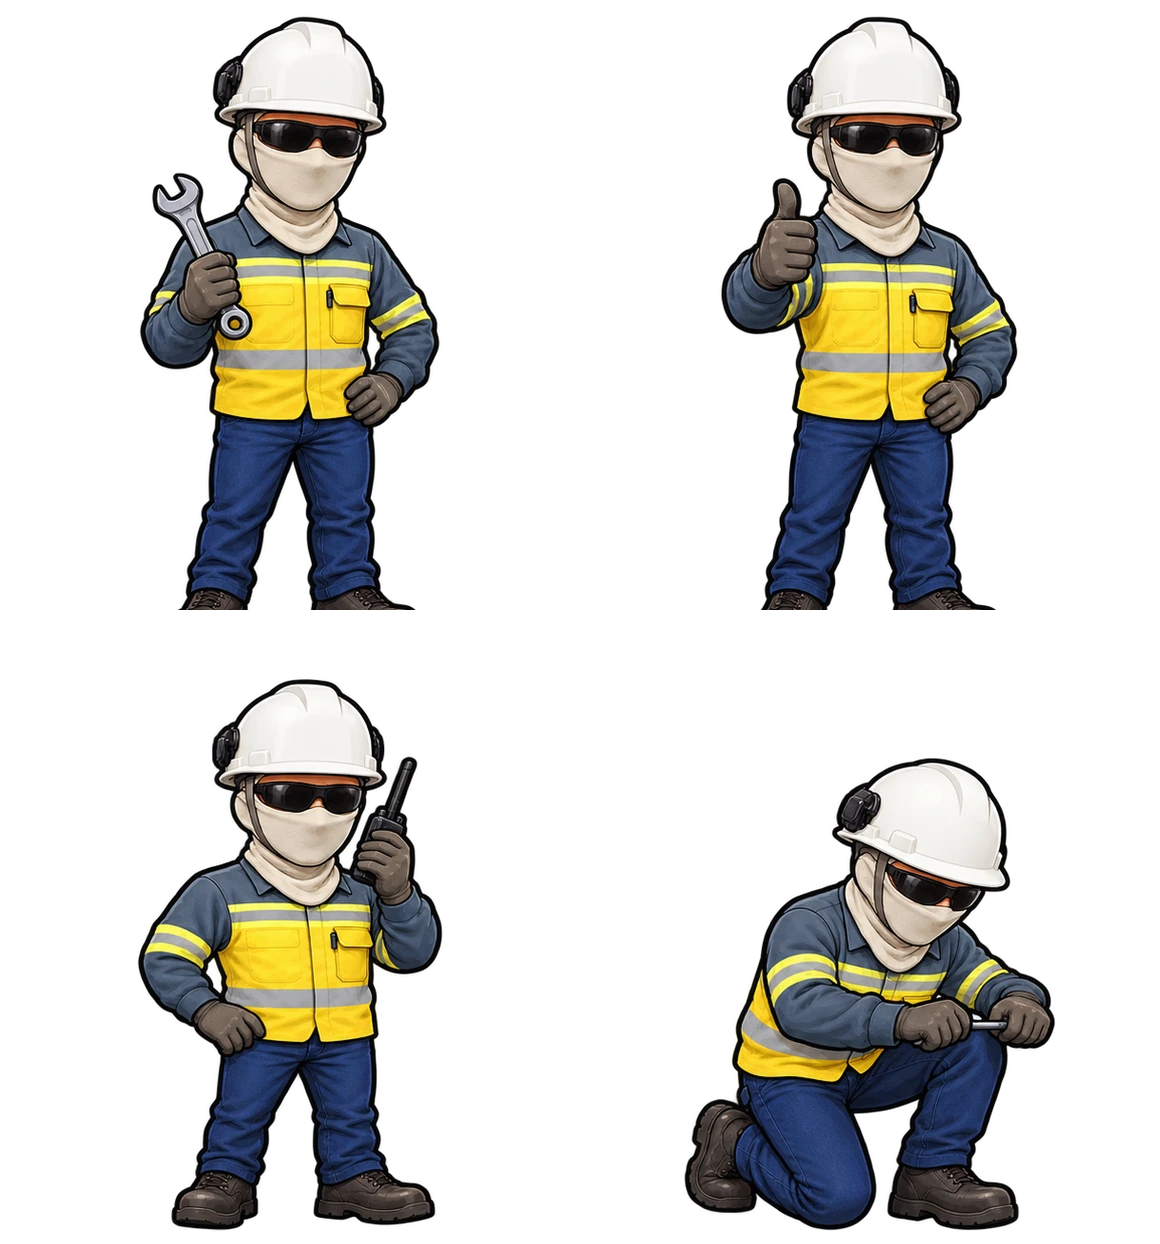
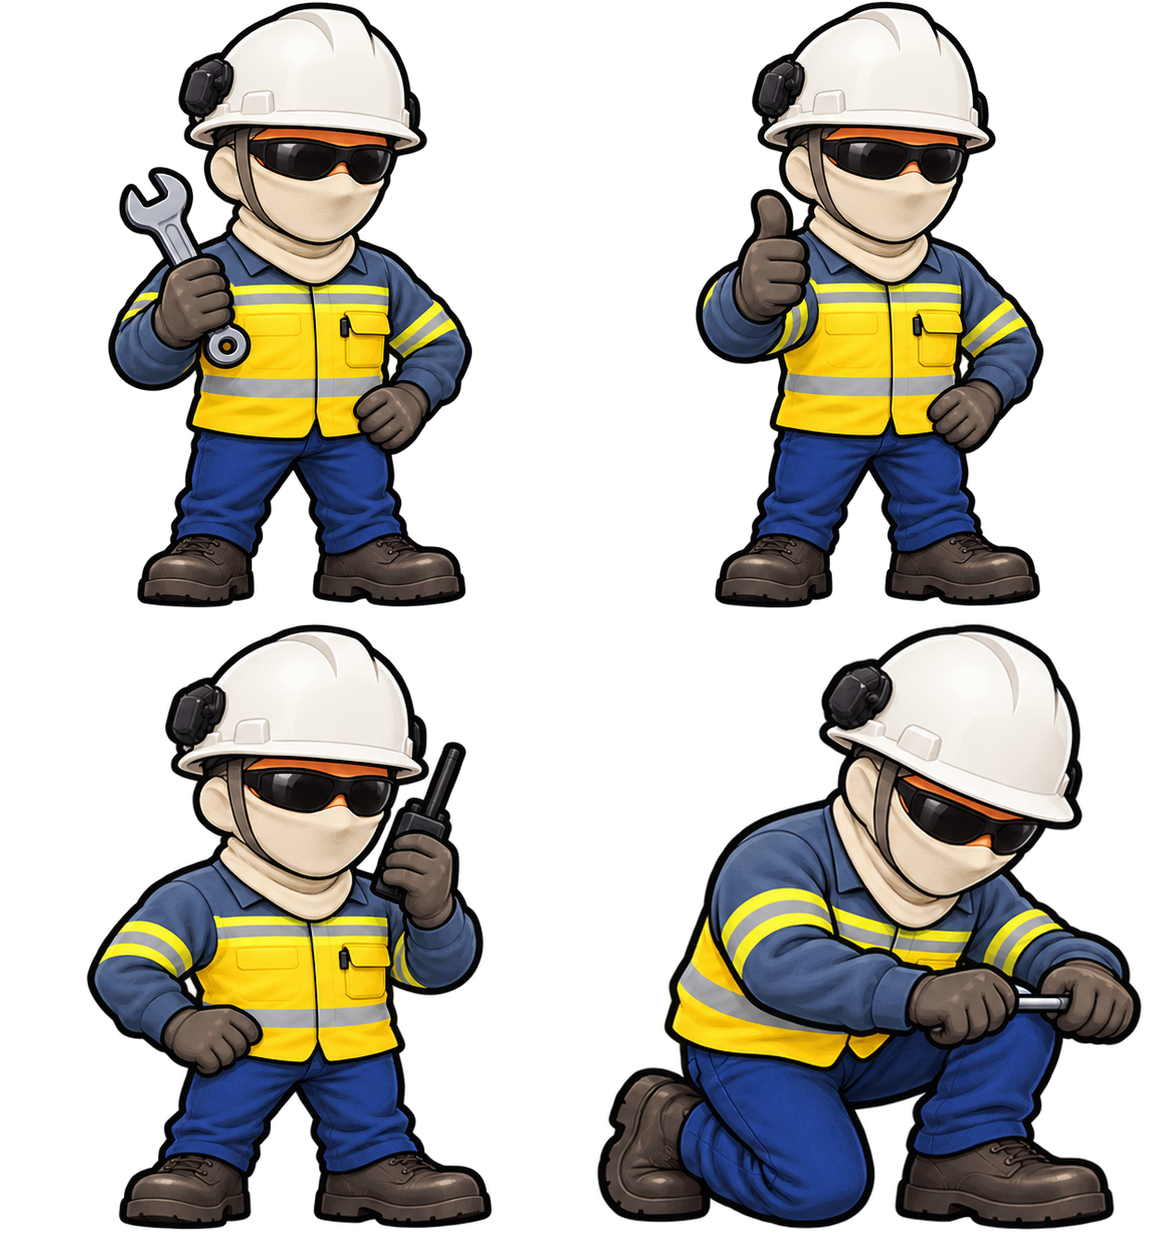
fix(Phaser v0.8.21): normalize Junior atlas and prefilter worker sprites

diff --git a/phaser-play/game.js b/phaser-play/game.js
@@ -1,4 +1,4 @@
-/* P.O.R.C.A.R.I.A. Phaser vertical slice v0.8.19 · motor de simulacao v1.1 */
+/* P.O.R.C.A.R.I.A. Phaser vertical slice v0.8.21 · motor de simulacao v1.1 */
 (() => {
 'use strict';
 const $=id=>document.getElementById(id);
@@ -38,6 +38,7 @@ const WORKER_SHEETS=Object.freeze({
 // Uniforme de treinamento não é carregado como sprite da oficina.
 const TEAM_PORTRAITS=Object.freeze({junior:'./assets/characters/junior/junior-training-4poses.webp'});
 const WORKER_FRAME={width:580,height:622,poses:4};
+const WORKER_RENDER_FRAME={width:290,height:311}; // pré-filtragem 2×, sem alterar tamanho em cena
 const WORKER_POSES={blocked:[0],diagnose:[0,2,1,2],repair:[0,3,2,3]};
 let MODEL_PRESENTATION={};
 let BACKGROUND_PROFILES=null;
@@ -973,6 +974,35 @@ class Workshop extends Phaser.Scene{
      this.machineObjs.push(g);
    }
  }
+ workerRenderTexture(texture){
+  const renderKey=texture+'_prefilter_v0821';
+  if(this.textures.exists(renderKey))return renderKey;
+  const src=this.textures.get(texture).getSourceImage();
+  if(!src||src.width!==WORKER_FRAME.width*2||src.height!==WORKER_FRAME.height*2)return texture;
+  // Reduzir cada frame separadamente evita vazamento de pixels entre poses.
+  // Canvas pré-filtra em alta qualidade antes da última redução feita pelo GPU.
+  const canvas=document.createElement('canvas');
+  canvas.width=WORKER_RENDER_FRAME.width*2;
+  canvas.height=WORKER_RENDER_FRAME.height*2;
+  const ctx=canvas.getContext('2d',{alpha:true});
+  if(!ctx)return texture;
+  ctx.imageSmoothingEnabled=true;
+  ctx.imageSmoothingQuality='high';
+  for(let i=0;i<4;i++){
+   ctx.drawImage(src,(i%2)*WORKER_FRAME.width,Math.floor(i/2)*WORKER_FRAME.height,
+    WORKER_FRAME.width,WORKER_FRAME.height,
+    (i%2)*WORKER_RENDER_FRAME.width,Math.floor(i/2)*WORKER_RENDER_FRAME.height,
+    WORKER_RENDER_FRAME.width,WORKER_RENDER_FRAME.height);
+  }
+  const sheet=this.textures.addCanvas(renderKey,canvas);
+  if(!sheet)return texture;
+  for(let i=0;i<4;i++){
+   sheet.add(i,0,(i%2)*WORKER_RENDER_FRAME.width,Math.floor(i/2)*WORKER_RENDER_FRAME.height,
+    WORKER_RENDER_FRAME.width,WORKER_RENDER_FRAME.height);
+  }
+  sheet.setFilter(Phaser.Textures.FilterMode.LINEAR);
+  return renderKey;
+ }
  worker(x,y,mechanic,{facing='right',mode='diagnose',visualCalibrationX=0,bay=null}={}){
   x=this.activeProfile==='fullFrame'&&bay
    ?window.PORCARIA_LAYOUT.placeWorkerInBay(x,bay,54,2)
@@ -981,11 +1011,13 @@ class Workshop extends Phaser.Scene{
   const person=mechanic?.sprite;
   const texture=person&&WORKER_SHEETS[person]?'worker_'+person:null;
   if(texture&&this.textures.exists(texture)){
-   // Em redução ~10x, LINEAR preserva mais contornos do que NEAREST.
-   this.textures.get(texture).setFilter(Phaser.Textures.FilterMode.LINEAR);
+   // Pré-filtra cada pose em 2× antes da minificação final, sem mexer no ponto de apoio.
+   const renderKey=this.workerRenderTexture(texture);
+   const frame=renderKey===texture?WORKER_FRAME:WORKER_RENDER_FRAME;
+   this.textures.get(renderKey).setFilter(Phaser.Textures.FilterMode.LINEAR);
    const poses=WORKER_POSES[mode]||WORKER_POSES.diagnose;
-   const actor=this.add.sprite(x,y,texture,poses[0]).setOrigin(.5,1);
-   actor.setScale(Math.min(54/WORKER_FRAME.width,64/WORKER_FRAME.height));
+   const actor=this.add.sprite(x,y,renderKey,poses[0]).setOrigin(.5,1);
+   actor.setScale(Math.min(54/frame.width,64/frame.height));
    actor.setFlipX(facing==='left');
    this.workerSprites.push({sprite:actor,frames:poses,index:0});
    return actor;

diff --git a/sw.js b/sw.js
@@ -1,5 +1,5 @@
 /* P.O.R.C.A.R.I.A.: network-first para sempre atualizar o Pages; offline como fallback. */
-const CACHE='porcaria-vqec-20261018-v100';
+const CACHE='porcaria-vqec-20261018-v101';
 const CORE=['./','./index.html','./engine.js','./game-data.json','./manifest.webmanifest','./icon-192.png','./icon-512.png','./phaser-play/index.html','./phaser-play/game.js','./phaser-play/assets/equipment/cat777e_v3.webp','./phaser-play/assets/equipment/sandvik_dr410i_v2.webp','./phaser-play/assets/equipment/cat966-loader-v0819.webp','./phaser-play/assets/equipment/cat16-grader-v0819.webp','./phaser-play/assets/equipment/catd9-dozer-v0819.webp','./phaser-play/assets/characters/costa-4poses.webp','./phaser-play/assets/characters/barbosa-4poses.webp','./phaser-play/assets/characters/garcia-4poses.webp','./phaser-play/assets/characters/braga-4poses.webp','./phaser-play/assets/characters/almeida-4poses.webp','./phaser-play/assets/characters/sousa-4poses.webp','./phaser-play/assets/characters/pereira-4poses.webp','./phaser-play/assets/characters/silva-4poses.webp','./phaser-play/assets/characters/santos-4poses.webp','./phaser-play/assets/characters/moura-4poses.webp','./phaser-play/assets/characters/pedro-4poses.webp','./phaser-play/assets/characters/geovane-4poses.webp','./phaser-play/assets/characters/junior/junior-work-4poses.webp','./phaser-play/assets/characters/junior/junior-training-4poses.webp','./phaser-play/readiness.js','./phaser-play/diagnostic-board.js','./phaser-play/diagnostic-view.js','./phaser-play/closed-orders.js','./phaser-play/scene-map.json','./phaser-play/assets/oficina-base.avif','./phaser-play/assets/oficina-diurna-fullframe.avif','./phaser-play/assets/oficina-noturna-hq.avif'];
 self.addEventListener('install',e=>{e.waitUntil(caches.open(CACHE).then(c=>c.addAll(CORE)));self.skipWaiting()});
 self.addEventListener('activate',e=>{e.waitUntil(caches.keys().then(keys=>Promise.all(keys.filter(k=>k.startsWith('porcaria-vqec-')&&k!==CACHE).map(k=>caches.delete(k)))).then(()=>self.clients.claim()))});

diff --git a/phaser-play/index.html b/phaser-play/index.html
@@ -434,4 +434,4 @@ body{min-height:100vh}
 <div id="toast" class="toast" role="status" aria-live="polite" hidden></div>
 
 <script src="https://cdn.jsdelivr.net/npm/phaser@3.90.0/dist/phaser.min.js"></script>
-<script src="../engine.js"></script><script src="./layout-math.js?v=0.8.2"></script><script src="./shift-brief.js?v=0.7.7"></script><script src="./planning.js?v=0.7.8"></script><script src="./weekly.js?v=0.7.9"></script><script src="./readiness.js?v=0.8.8"></script><script src="./diagnostic-board.js?v=0.8.8"></script><script src="./diagnostic-view.js?v=0.8.8"></script><script src="./closed-orders.js?v=0.8.11"></script><script src="./game.js?v=0.8.20"></script><script>if("serviceWorker" in navigator)navigator.serviceWorker.register("../sw.js").catch(console.warn);</script></body></html>
+<script src="../engine.js"></script><script src="./layout-math.js?v=0.8.2"></script><script src="./shift-brief.js?v=0.7.7"></script><script src="./planning.js?v=0.7.8"></script><script src="./weekly.js?v=0.7.9"></script><script src="./readiness.js?v=0.8.8"></script><script src="./diagnostic-board.js?v=0.8.8"></script><script src="./diagnostic-view.js?v=0.8.8"></script><script src="./closed-orders.js?v=0.8.11"></script><script src="./game.js?v=0.8.21"></script><script>if("serviceWorker" in navigator)navigator.serviceWorker.register("../sw.js").catch(console.warn);</script></body></html>

diff --git a/phaser-play/ROADMAP.md b/phaser-play/ROADMAP.md
@@ -2,10 +2,37 @@
 
 **Projeto:** *Você Quebra, Eu Conserto* · jogo de gestão de manutenção de equipamentos de mineração.
 **Interface-alvo:** oficina 2D em Phaser 3, com três boxes visíveis e menus pop-up.
-**Estado de referência:** 18/10/2026 · **v0.8.20 em validação: elenco contratável e sprites WebP lossless com filtro LINEAR; Box 2 −5 px para mecânicos; CI e QA visual pendentes.**
+**Estado de referência:** 18/10/2026 · **v0.8.21 — novo atlas Junior e pré-filtragem de sprites em implementação; QA visual pendente.**
 **Jogo de teste:** https://pedromaintenance.github.io/porcaria-voce-quebra-eu-conserto/phaser-play/
 
 > Status abaixo significa implementação no código, **não homologação funcional nem aprovação artística**. O deploy do Pages é executado automaticamente, mas deve ser conferido no GitHub Actions; o teste interativo permanece necessário.
+
+## Entrega 0.8.21 — Junior em proporção chibi e pré-filtragem dos sprites (P0 / arte e renderização)
+
+**Implementação de 18/10/2026.** Status: código e novo WebP preparados para publicação; CI e inspeção visual no navegador não equivalem à aprovação artística.
+
+### Corrigido
+- [x] Substituir **somente o atlas de campo do Junior** (`assets/characters/junior/junior-work-4poses.webp`), preservando a arte de camisa azul exclusiva de Equipe/treinamento.
+- [x] Usar a imagem revisada com cabeça maior e tronco mais largo, mantendo as poses ferramenta, aprovação, rádio e reparo ajoelhado.
+- [x] Separar corretamente as quatro silhuetas antes da criação do atlas: a imagem original 1254×1254 tinha poses com pixels além do limite teórico dos quadrantes, causando recorte de botas. O novo atlas 1160×1244 contém quatro quadros independentes de 580×622.
+- [x] Ancoragem de cada pose pelo menor ponto opaco, com **12 px inferiores de margem**; nenhuma silhueta invade outro quadro. O ponto de apoio `origin(.5,1)`, a posição dos boxes e a altura visual nominal dos profissionais não mudam.
[1 lines of base64/hex data omitted]
+- [x] **Pré-filtragem única por personagem e por pose** no Phaser: reamostragem do atlas de 580×622 para **290×311 por frame** via Canvas 2D (`imageSmoothingQuality='high'`), depois filtro LINEAR. Evita a minificação direta ~10× realizada anteriormente. O atlas original permanece íntegro; cache de texturas derivadas não é recalculado a cada frame.
+- [x] Nenhum deslocamento de máquinas, sombras, HUD, hitboxes, pontos de apoio nem alteração de save ou regras econômicas.
+- [x] Invalidação de cache PWA (`porcaria-vqec-20261018-v101`) e script Phaser (`game.js?v=0.8.21`); regressões para dimensões, filtragem, geometria e compatibilidade.
+
+### Limite material da nitidez
+A oficina usa mundo Phaser **1080×450**, ampliado via CSS no desktop. A pré-filtragem melhora a amostragem dos **sprites individuais**, mas não aumenta a resolução física do canvas. Dobrar a resolução da câmera/viewport é uma evolução separada, pois exige validar transformações de clique, barras, fontes, desempenho mobile e as três hitboxes. Não declarar nitidez perfeita sem capturas comparativas.
+
+### Homologação obrigatória no GitHub Pages
+- [ ] Limpar preview/caches, carregar campanha nova com Junior; conferir capacete, proporção, braços e botas nas quatro poses.
+- [ ] Verificar Junior em BOX 1/2/3, com fundo diurno e noturno; conferir 12 px de transparência abaixo das botas e ausência de corte/teleporte entre poses.
+- [ ] Conferir que Geovane, Pedro e demais contratáveis mantêm a posição e que os novos sprites estão **mais legíveis** em telas 1366, 1920 e mobile.
+- [ ] Executar OS (diagnóstico→reparo), concluir serviço, importar save legado e verificar identidade e persistência.
+- [ ] Testar fallback de textura no Firefox/Chromium, exportação/importação, PWA e custo de memória.
+- [ ] Registrar comparação de captura **antes/depois** e, somente então, aprovar arte e renderização.
+
+**Critério de aceite:** Junior compacto, quatro quadros íntegros e ancorados pelo mesmo piso; detalhes de EPI legíveis sem alterar a oficina nem o estado simulado.
 
 ## Princípios do projeto
 
@@ -1084,6 +1111,8 @@ O workflow `.github/workflows/deploy-pages.yml` executa `node --check` e `node s
 - **0.8.16:** três mecânicos novos Silva/Santos/Moura + renomeação Isaias→Costa, atlas WebP em quatro poses, seis iniciais, genéricos sem sprite e migração sem reatribuir IDs de contratados; PWA/testes atualizados. **QA visual pendente.**
 - **0.8.17:** asset Sandvik DR410i fornecido pelo jogador (1536×1024) convertido para WebP transparente, com EQ05 desvinculado de EQ06 e arquivo anterior preservado; testes exclusivos de textura, integridade e geometria. **QA visual pendente.**
 - **0.8.18:** Junior Especialista com dois atlas de 4 poses (EPI/balaclava nas OS; camisa azul em Equipe/treinamento futuro), nova identidade sem sobrescrever M7 legado, 7 profissionais e 3 boxes preservados. **QA visual pendente.**
+- **0.8.21:** Junior recebe atlas chibi com pés/frames normalizados e WebP lossless; personagens recebem pré-filtragem 2×/LINEAR com geometria mantida. **QA visual pendente.**
+- **0.8.20:** equipe inicial de três, 10 contratáveis identificados, 6 atlas WebP lossless, filtro LINEAR e BOX 2 −5 px nos trabalhadores; CI e deploy concluídos. **QA visual pendente.**
 - **0.8.19:** CAT D9, CAT 966 e CAT 16 recebem sprites WebP pixel-art completos, com chaves próprias EQ07/EQ08/EQ09 no Phaser, fallback histórico, hashes e teste de enquadramento no CI. **QA visual pendente.**
 
 ### Organização recomendada
